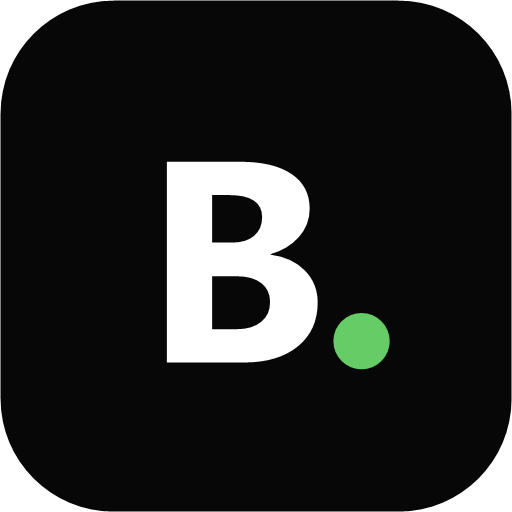
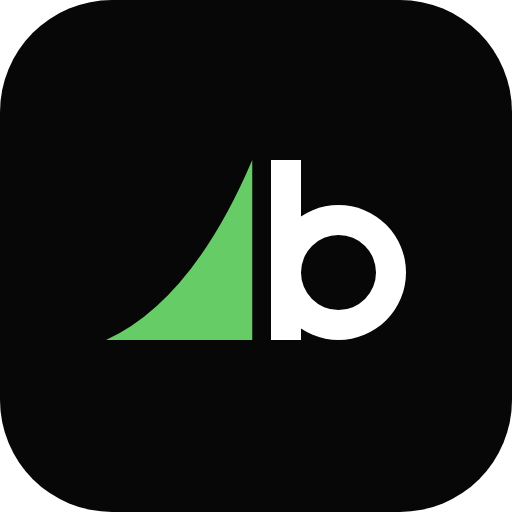
Uygulama ikonu: logodaki üçgen + b
Ana ekrana eklenen uygulamanın ikonu "B." yerine logodaki işaret oldu:
yeşil kavisli üçgen ve küçük harf b, koyu zemin üzerinde.

- Ölçüler logo görselinden alındı (üçgen eğrisi, b sapı ve çanağı)
- icons/icon.svg kaynak çizim; 192/512, maskable (Android dairesel
  maske için güvenli alanda) ve apple-touch (180) PNG'leri bundan üretildi
- Çevrimdışı önbellek sürümü v4: yeni ikonlar eski kopyanın yerine geçer

diff --git a/sw.js b/sw.js
@@ -3,7 +3,7 @@
    Böylece yeni sürüm yayınlandığında kimse eski kodda kalmaz. Yeni dosya eklenince SHELL listesine de ekle
    (npm test eksik dosyayı yakalar). */
 
-const CACHE = 'bisolera-portal-v3';
+const CACHE = 'bisolera-portal-v4';
 const SHELL = [
   './',
   'index.html',
